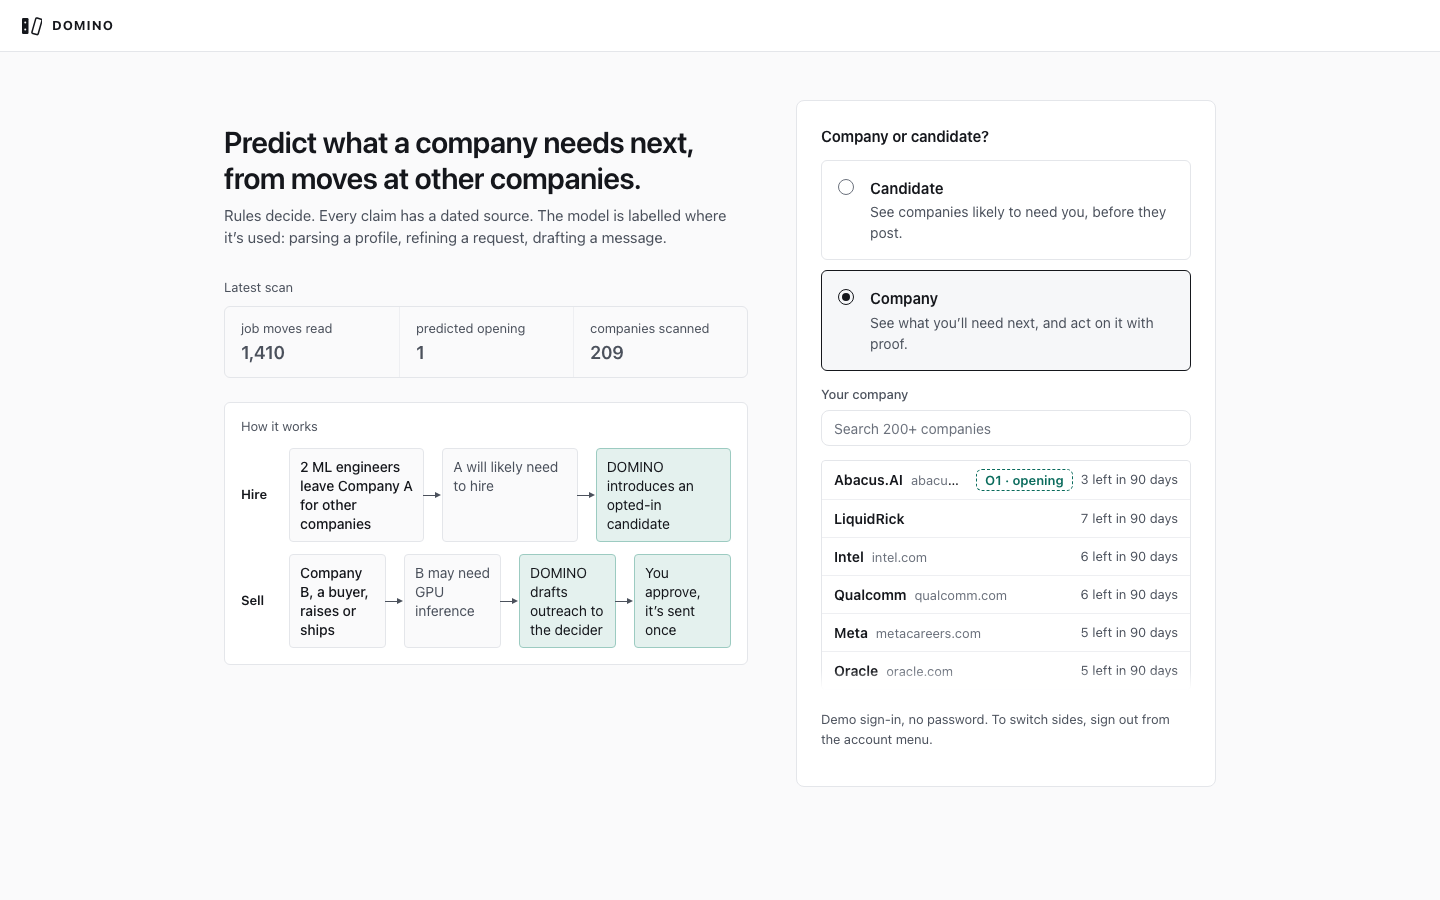
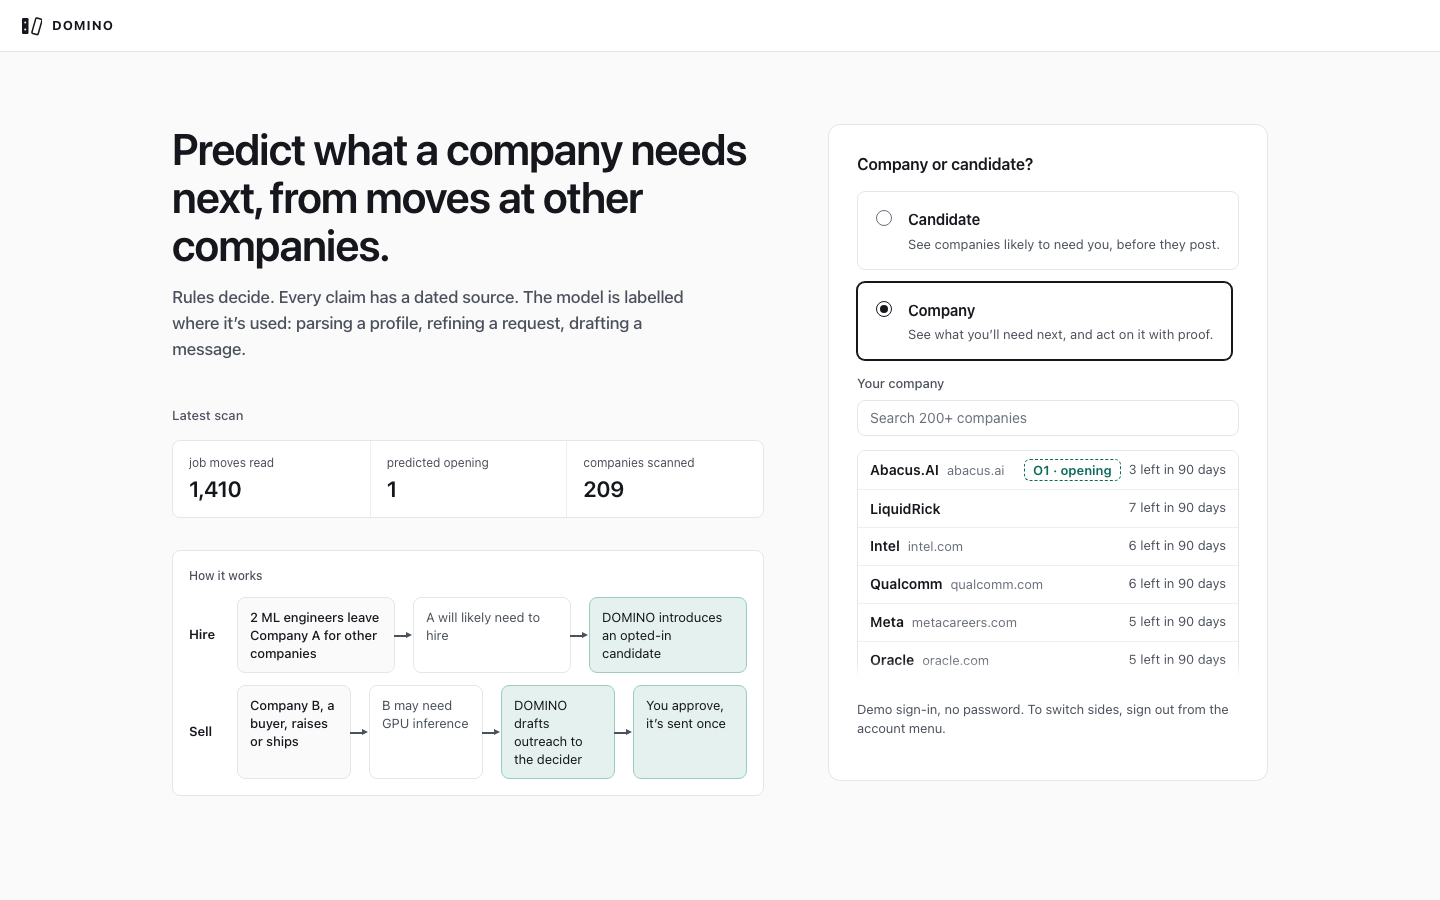
p5-shell: sign-in page Attio SPEC pass (display heading, hairline cards, clear role cards, 10px near-black primary, generous spacing)

diff --git a/web2/src/styles/pages.css b/web2/src/styles/pages.css
@@ -130,3 +130,26 @@
 .dom-lane li + li::after { content: ''; position: absolute; left: -8px; top: calc(50% - 3px); border: 3.5px solid transparent; border-left: 6px solid var(--ink-2); border-right: 0; }
 @keyframes dom-in { from { opacity: 0; transform: translateX(-4px); } to { opacity: 1; transform: none; } }
 @media (prefers-reduced-motion: reduce) { .dom-lane li { animation: none; opacity: 1; } }
+
+/* ---------------------------------------------------------------- sign-in, Attio SPEC pass (17:20)
+   Display heading semibold with tight tracking, hairline cards (8px), near-black primary (10px), generous gaps. */
+.signin { max-width: 1160px; padding: 72px 32px 80px; grid-template-columns: minmax(0, 1fr) 440px; gap: 64px; }
+.signin-head h1 { font-size: 44px; line-height: 48px; font-weight: 600; letter-spacing: -0.025em; margin: 0 0 16px; max-width: 15em; color: var(--ink); }
+.signin-head > p { font-size: 17px; line-height: 26px; font-weight: 500; letter-spacing: -0.01em; color: var(--ink-2); max-width: 32em; }
+.signin-head > p.signin-at { margin-top: 40px; font-size: var(--fs-ui); font-weight: 500; letter-spacing: 0; color: var(--ink-2); }
+.signin-stats { margin-top: 12px; border: var(--hair); border-radius: var(--r-lg); background: var(--surface); }
+.signin-stats > div { padding: 14px 16px; }
+.signin-stats dt { font-size: var(--fs-cap); line-height: var(--lh-cap); color: var(--ink-2); }
+.signin-stats dd { font-size: 22px; line-height: 28px; font-weight: 600; letter-spacing: -0.015em; color: var(--ink); margin-top: 4px; }
+.dominoes { margin-top: 32px; padding: 16px; gap: 12px; border: var(--hair); border-radius: var(--r-lg); background: var(--surface); }
+.dominoes figcaption { font-size: var(--fs-cap); font-weight: 500; color: var(--ink-2); }
+.dom-lane li { border-radius: var(--r-lg); border-color: var(--rule); background: var(--surface); font-size: var(--fs-ui); line-height: var(--lh-ui); padding: 10px 12px; }
+.dom-lane li.dom-cause { background: var(--canvas); }
+.signin-panel { padding: 28px; border-radius: var(--r-xl); }
+.signin-panel h2 { font-size: var(--fs-sec); line-height: 22px; letter-spacing: -0.01em; margin-bottom: 16px; }
+.role { border-radius: var(--r-lg); padding: 16px 18px; margin-bottom: 12px; }
+.role b { font-size: 15px; letter-spacing: -0.01em; }
+.role p { font-size: var(--fs-ui); line-height: var(--lh-ui); margin-top: 4px; }
+.role[aria-pressed='true'] { border-color: var(--ink); background: var(--surface); box-shadow: 0 0 0 1px var(--ink); }
+.pick { border-radius: var(--r-ctl); }
+.signin-go, .signin .btn.pri, .signin .btn.primary { height: 40px; border-radius: 10px; font-weight: 500; font-size: var(--fs-body); }
